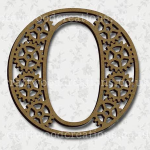
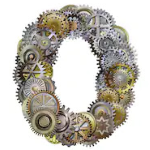
Last minute theme changes

diff --git a/index.html b/index.html
@@ -169,14 +169,14 @@
                     <span class="input-group-text">@</span>
                   </div>
                   <input id="emailField" class="form-control" name="credentials[email]"
-                    type="email" placeholder="E-mail Address" autocomplete="true" value="tictactoe@cantimaginewhy.com">
+                    type="email" placeholder="E-mail Address" autocomplete="false">
                 </div>
                 <div class="input-group mb-3">
                   <div class="input-group-prepend">
                     <span class="input-group-text">*</span>
                   </div>
                   <input id="passwordField" class="form-control" name="credentials[password]"
-                    type="password" placeholder="Password" autocomplete="true" value="password">
+                    type="password" placeholder="Password" autocomplete="false">
                 </div>
               </div>
             </form>
@@ -295,13 +295,13 @@
           </div>
           <div class="modal-body">
             <div id="optionsFormContent" class="row">
-              <button id="primaryThemeBtn" class="btn btn-default theme-button col">
+              <button id="primaryThemeBtn" class="btn btn-default theme-button col" data-theme="primary">
                 <img src="public/images/primary/o.png" alt="Primary Theme" class="primary">
               </button>
-              <button id="minimalThemeBtn" class="btn btn-default theme-button col">
+              <button id="minimalThemeBtn" class="btn btn-default theme-button col" data-theme="minimal">
                 <img src="public/images/minimal/o.png" alt="Minimalist Theme" class="minimal">
               </button>
-              <button id="gothicThemeBtn" class="btn btn-default theme-button col">
+              <button id="gothicThemeBtn" class="btn btn-default theme-button col" data-theme="goth">
                 <img src="public/images/goth/o.png" alt="Gothic Theme" class="goth">
               </button>
             </div>
@@ -311,10 +311,10 @@
               <div class="col text-center theme-text goth-text">Gothic</div>
             </div>
             <div class="row">
-              <button id="circuitThemeBtn" class="btn btn-default theme-button col">
+              <button id="circuitThemeBtn" class="btn btn-default theme-button col" data-theme="circuit">
                 <img src="public/images/circuit/o.png" alt="Circuit Theme" class="circuit">
               </button>
-              <button id="steampunkThemeBtn" class="btn btn-default theme-button col">
+              <button id="steampunkThemeBtn" class="btn btn-default theme-button col" data-theme="steampunk">
                 <img src="public/images/steampunk/o.png" alt="Steampunk Theme" class="steampunk">
               </button>
             </div>

diff --git a/assets/scripts/main/theme.js b/assets/scripts/main/theme.js
@@ -22,7 +22,7 @@ Theme.prototype.getImageTag = function (img) {
 const primaryTheme = new Theme(0, 'Primary', 'primary', '#f00', '#00f', '#000', '#fff')
 const minimalTheme = new Theme(1, 'Minimalist', 'minimal', '#ddd', '#333', '#000', '#fff')
 const gothicTheme = new Theme(2, 'Gothic', 'goth', '#000', '#fff', '#333', '#bbb')
-const circuitTheme = new Theme(3, 'Circuit', 'circuit', '#bb0', '#060', '#000', '#fff')
+const circuitTheme = new Theme(3, 'Circuit', 'circuit', '#bb0', '#090', '#000', '#fff')
 const steampunkTheme = new Theme(4, 'Steampunk', 'steampunk', '#ffd700', '#c0c0c0', '#000', '#fff')
 
 const availableThemes = [

diff --git a/assets/styles/theme.scss b/assets/styles/theme.scss
@@ -115,11 +115,10 @@ body.goth-theme {
 
 
 body.circuit-theme {
-  // background-image: url('public/images/circuit/body-bkg.png');
-  // background-repeat: repeat;
+  background-image: url('public/images/circuit/bkg.png');
 
   .panel {
-    background-image: url('public/images/circuit/bkg.png');
+    background-color: #666;
   }
 
   .x-text {
@@ -160,7 +159,7 @@ body.steampunk-theme {
   background-repeat: repeat;
 
   .panel {
-    background-image: url('public/images/steampunk/bkg.png');
+    background-color: #999;
   }
 
   .x-text {

diff --git a/assets/scripts/main/options.js b/assets/scripts/main/options.js
@@ -46,6 +46,7 @@ const themeOptionHtml = function (optionType, theme) {
   return html
 }
 
+// Excessively inelegant, but didn't feel like refactoring and it's getting late
 const restoreThemeButtons = function () {
   $('#optionsForm .theme-button').removeClass('active')
   $('#optionsForm .theme-text').removeClass('active')

diff --git a/assets/styles/colors.scss b/assets/styles/colors.scss
@@ -10,7 +10,7 @@ $gothX: #000;
 $gothO: #fff;
 
 $circuitX: #bb0;
-$circuitO: #060;
+$circuitO: #090;
 
-$steampunkX: gold;
-$steampunkO: silver;
+$steampunkX: #ffd700;
+$steampunkO: #c0c0c0;
